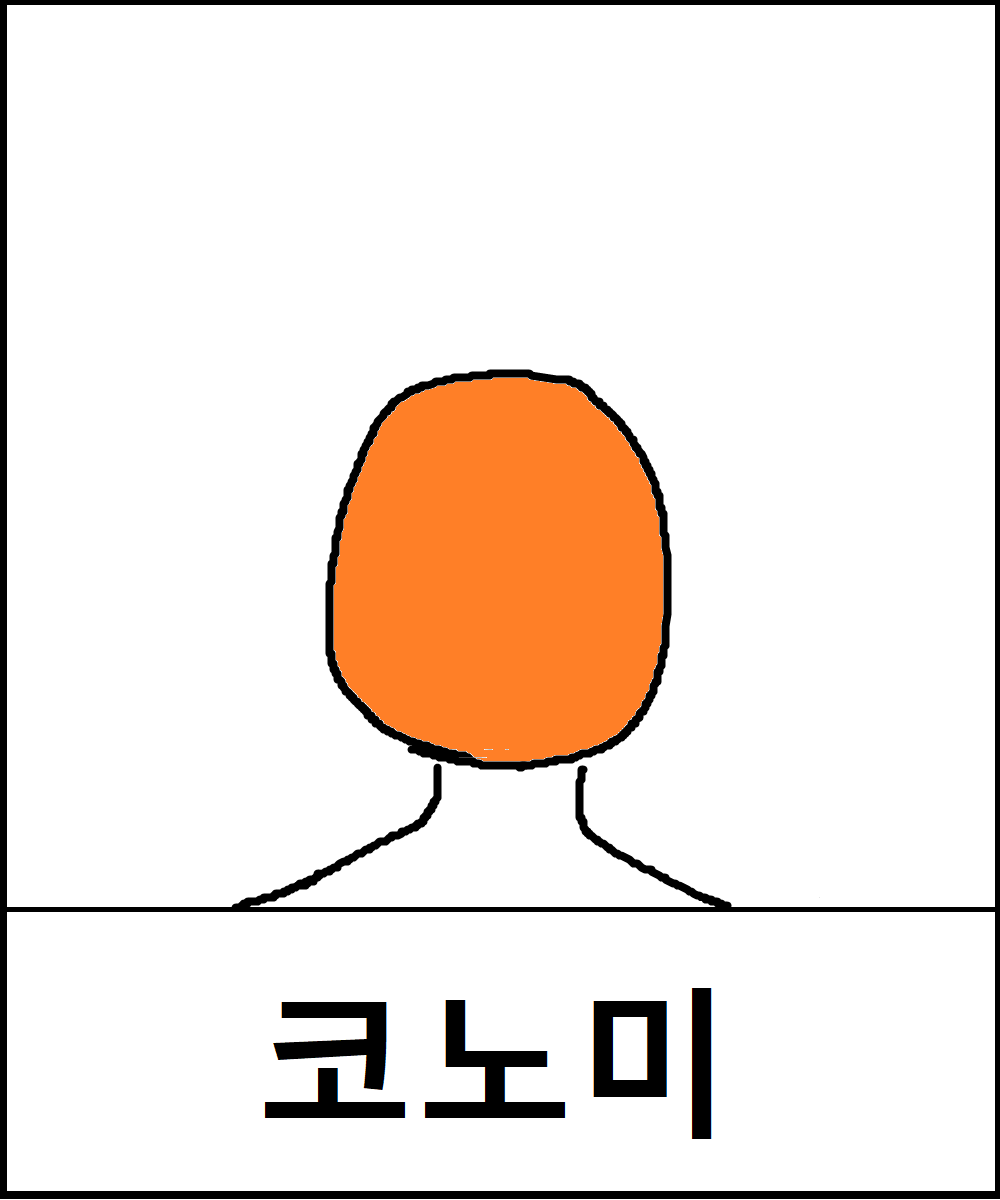
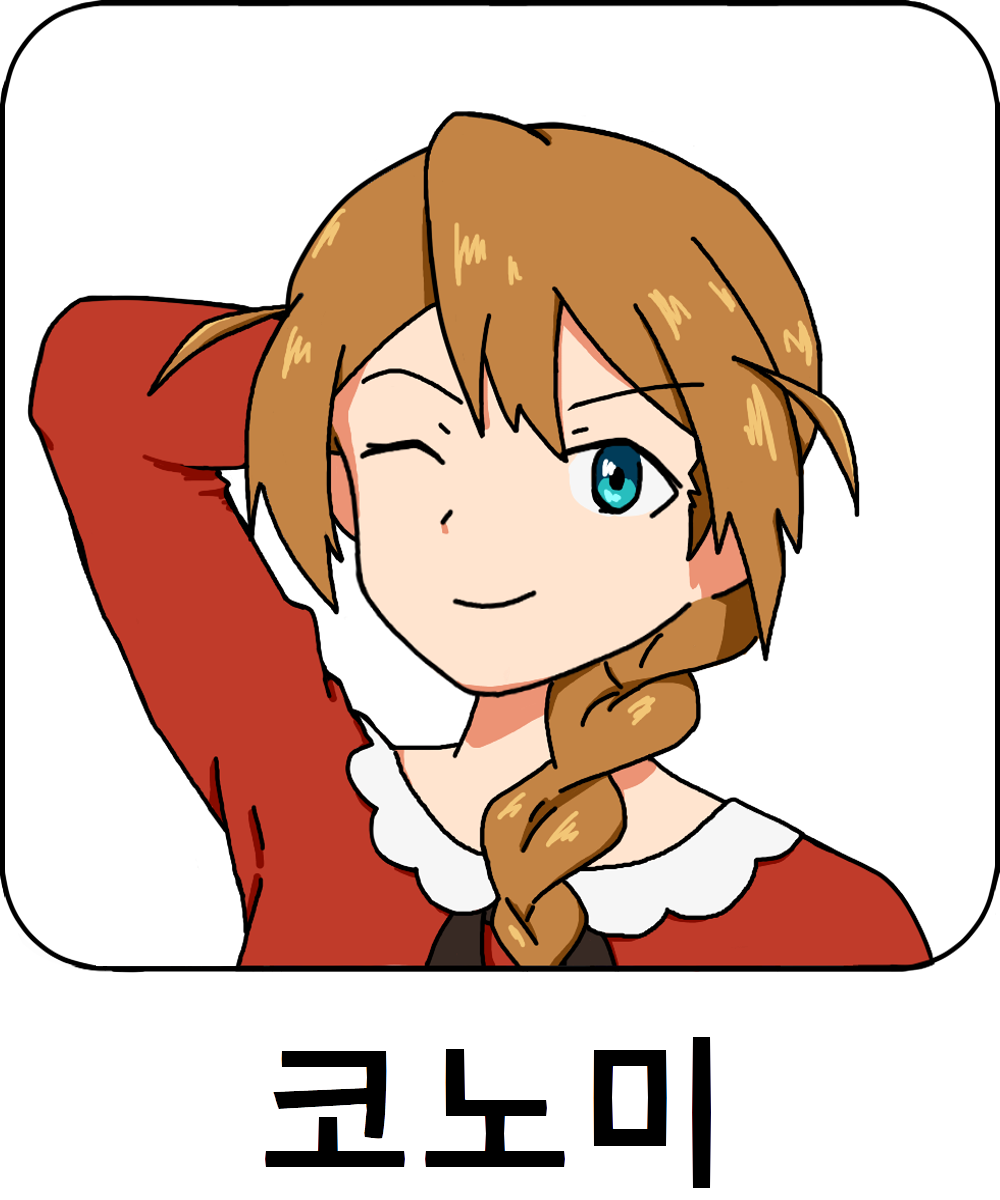
prof

diff --git a/info.html b/info.html
@@ -28,7 +28,7 @@
     <div class="info">
       <h1 style="text-align: center">캐릭터</h1>
         <div class="background_box">
-          <img src="infobox.png" width=800px>
+          <img src="info_box.png" width=800px>
           <div class="prof_picture">
             <a><img src="chihaya_prof.png" width=100px></a>
             <a><img src="ukiho_prof.png" width=100px></a>
@@ -46,27 +46,24 @@
         </div>
     </div>
 
-      <h2 style="text-align: center">캐릭터1</h2>
-      <p class="explain">
-        즙hit: 호쿠토 토우마 쇼타 즙hit: 호쿠토 토우마 쇼타
-        즙hit: 호쿠토 토우마 쇼타 즙hit: 호쿠토 토우마 쇼타<br>
-        즙hit: 호쿠토 토우마 쇼타 즙hit: 호쿠토 토우마 쇼타
-        즙hit: 호쿠토 토우마 쇼타 즙hit: 호쿠토 토우마 쇼타<br>
-        즙hit: 호쿠토 토우마 쇼타 즙hit: 호쿠토 토우마 쇼타
-        즙hit: 호쿠토 토우마 쇼타 즙hit: 호쿠토 토우마 쇼타<br>
-        즙hit: 호쿠토 토우마 쇼타 즙hit: 호쿠토 토우마 쇼타
-        즙hit: 호쿠토 토우마 쇼타 즙hit: 호쿠토 토우마 쇼타<br>
-        즙hit: 호쿠토 토우마 쇼타 즙hit: 호쿠토 토우마 쇼타
-        즙hit: 호쿠토 토우마 쇼타 즙hit: 호쿠토 토우마 쇼타<br>
-        즙hit: 호쿠토 토우마 쇼타 즙hit: 호쿠토 토우마 쇼타
-        즙hit: 호쿠토 토우마 쇼타 즙hit: 호쿠토 토우마 쇼타<br>
-        즙hit: 호쿠토 토우마 쇼타 즙hit: 호쿠토 토우마 쇼타
-        즙hit: 호쿠토 토우마 쇼타 즙hit: 호쿠토 토우마 쇼타<br>
-        즙hit: 호쿠토 토우마 쇼타 즙hit: 호쿠토 토우마 쇼타
-        즙hit: 호쿠토 토우마 쇼타 즙hit: 호쿠토 토우마 쇼타<br>
+      <h2 style="text-align: center">본가</h2>
+      <div class="explain">
+        <div class="explain_box"><img src="explain_box.png" width=650px></div>
+        <div class="explain_prof"><img src="chihaya_prof_n.png" width=200px></div>
 
-      </p>
-    </div>
+        <div class="write">
+          <h2 style = "color:blue">키사라기 치하야</h2>
+          <p>
+            즙hit: 호쿠토 토우마 쇼타 즙hit: 호쿠토<br>
+            즙hit: 호쿠토 토우마 쇼타 즙hit: 호쿠토<br>
+            즙hit: 호쿠토 토우마 쇼타 즙hit: 호쿠토<br>
+            즙hit: 호쿠토 토우마 쇼타 즙hit: 호쿠토<br>
+            즙hit: 호쿠토 토우마 쇼타 즙hit: 호쿠토<br>
+            즙hit: 호쿠토 토우마 쇼타 즙hit: 호쿠토<br>
+            즙hit: 호쿠토 토우마 쇼타 즙hit: 호쿠토<br>
+          </p>
+        </div>
+      </div>
 
   </body>
 </html>

diff --git a/info.css b/info.css
@@ -57,8 +57,18 @@ body {
   padding-bottom: 10px;
 }
 
-.explain {
-  text-align: center;
+.explain_box {
+    text-align: center;
+    position: relative; z-index: 1;
+}
+
+.explain_prof {
+    position: relative; left: 350px; top: -290px; z-index: 2;
+}
+
+.write {
+  text-align: right;
+  position: relative; left: -350px; top: -550px; z-index: 2;
   margin: 0px;
   padding-bottom: 200px;
 }
